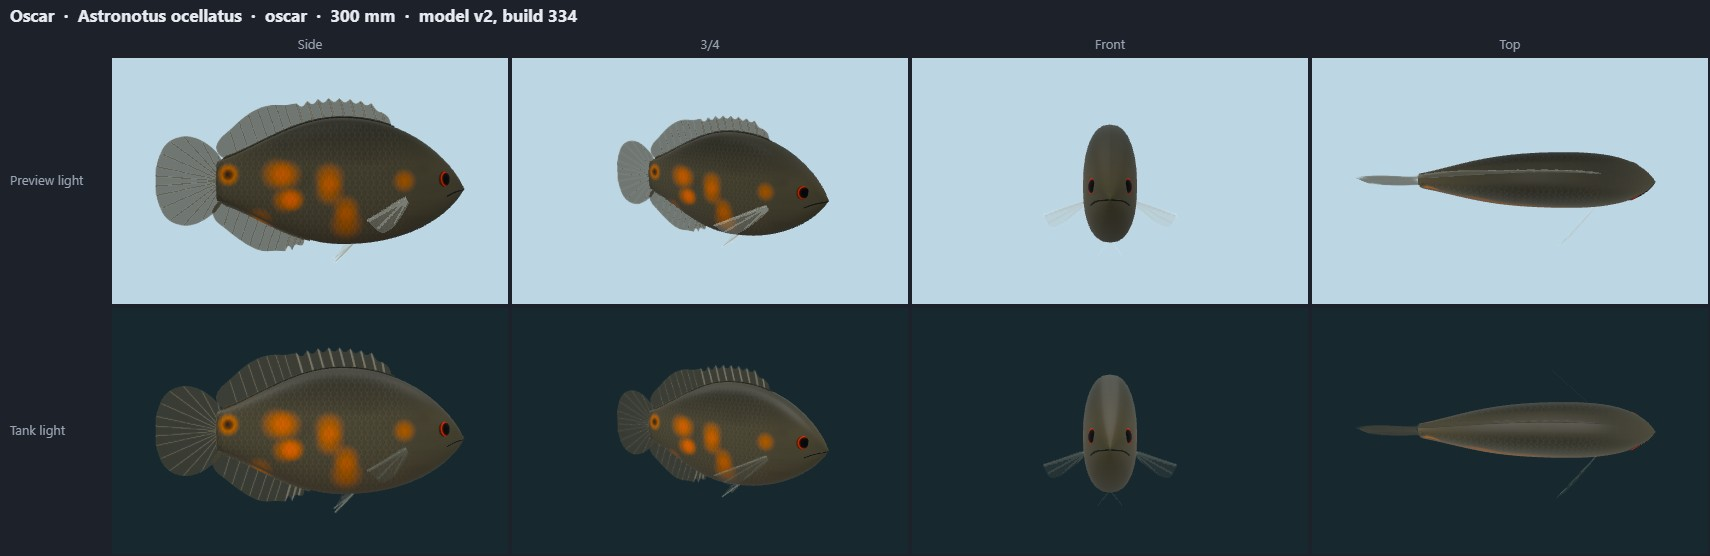
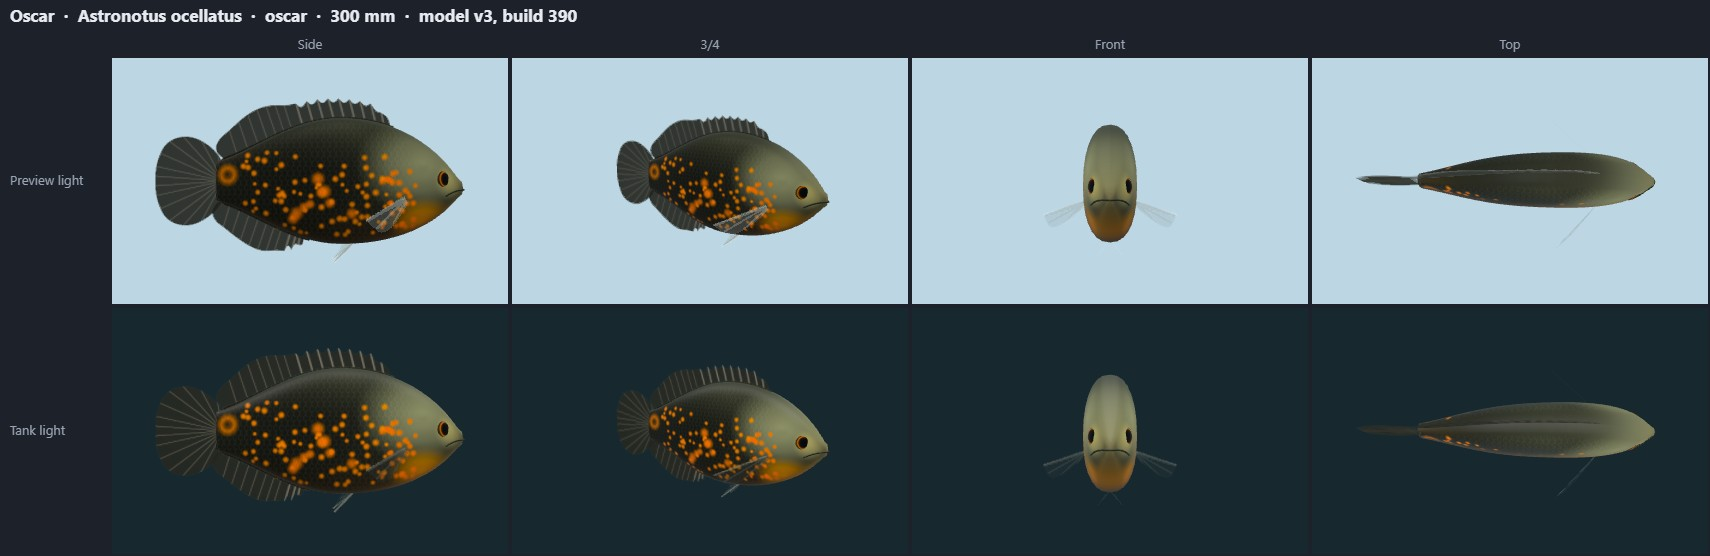
Lane F2: oscar - colours from Nathan's red tiger reference, nose rounded slightly (v2 body kept), v3; HANDOFF

diff --git a/public/model-sheets/index.html b/public/model-sheets/index.html
@@ -10,7 +10,7 @@ figure { margin: 8px 0 14px; padding: 8px; background: var(--panel); border-radi
 img { display: block; max-width: 100%; height: auto }
 </style></head><body>
 <h1>Model sheets</h1>
-<p>Pre-rendered review images of every TankLook animal model (no WebGL needed): 69 models, 58 species, written at build 386.
+<p>Pre-rendered review images of every TankLook animal model (no WebGL needed): 69 models, 58 species, written at build 390.
 Each sheet shows the Side, 3/4, Front, Top views; top row in the plain preview light, bottom row at true size in the default tank's LED light and water.
 Click a sheet for the full-size image (1710 × 556 px). Interactive version: <a href="../review.html">review.html</a>.</p>
 <h2>Freshwater fish</h2>
@@ -48,7 +48,7 @@ Click a sheet for the full-size image (1710 × 556 px). Interactive version: <a 
 <figure id="kribensis-f"><figcaption><b>Kribensis ♀</b> · <i>Pelvicachromis pulcher</i> · kribensis~f · 75 mm · model v2 (build 334, 2026-10-14)</figcaption><a href="kribensis-f.jpg"><img src="kribensis-f.jpg" width="1710" height="556" loading="lazy" alt="Kribensis ♀ (Pelvicachromis pulcher), model v2: Side, 3/4, Front, Top views, preview light (top row) and tank light (bottom row)"></a></figure>
 <figure id="angel"><figcaption><b>Angelfish</b> · <i>Pterophyllum scalare</i> · angel · 150 mm · model v2 (build 334, 2026-10-14)</figcaption><a href="angel.jpg"><img src="angel.jpg" width="1710" height="556" loading="lazy" alt="Angelfish (Pterophyllum scalare), model v2: Side, 3/4, Front, Top views, preview light (top row) and tank light (bottom row)"></a></figure>
 <figure id="discus"><figcaption><b>Discus</b> · <i>Symphysodon aequifasciatus</i> · discus · 150 mm · model v3 (build 334, 2026-10-14)</figcaption><a href="discus.jpg"><img src="discus.jpg" width="1710" height="556" loading="lazy" alt="Discus (Symphysodon aequifasciatus), model v3: Side, 3/4, Front, Top views, preview light (top row) and tank light (bottom row)"></a></figure>
-<figure id="oscar"><figcaption><b>Oscar</b> · <i>Astronotus ocellatus</i> · oscar · 300 mm · model v2 (build 334, 2026-10-14)</figcaption><a href="oscar.jpg"><img src="oscar.jpg" width="1710" height="556" loading="lazy" alt="Oscar (Astronotus ocellatus), model v2: Side, 3/4, Front, Top views, preview light (top row) and tank light (bottom row)"></a></figure>
+<figure id="oscar"><figcaption><b>Oscar</b> · <i>Astronotus ocellatus</i> · oscar · 300 mm · model v3 (build 390, 2026-10-14)</figcaption><a href="oscar.jpg"><img src="oscar.jpg" width="1710" height="556" loading="lazy" alt="Oscar (Astronotus ocellatus), model v3: Side, 3/4, Front, Top views, preview light (top row) and tank light (bottom row)"></a></figure>
 <figure id="goldfish"><figcaption><b>Fancy goldfish</b> · <i>Carassius auratus</i> · goldfish · 160 mm · model v2 (build 377, 2026-10-14)</figcaption><a href="goldfish.jpg"><img src="goldfish.jpg" width="1710" height="556" loading="lazy" alt="Fancy goldfish (Carassius auratus), model v2: Side, 3/4, Front, Top views, preview light (top row) and tank light (bottom row)"></a></figure>
 <figure id="bronzecory"><figcaption><b>Bronze corydoras</b> · <i>Corydoras aeneus</i> · bronzecory · 65 mm · model v2 (build 359, 2026-10-14)</figcaption><a href="bronzecory.jpg"><img src="bronzecory.jpg" width="1710" height="556" loading="lazy" alt="Bronze corydoras (Corydoras aeneus), model v2: Side, 3/4, Front, Top views, preview light (top row) and tank light (bottom row)"></a></figure>
 <figure id="pandacory"><figcaption><b>Panda corydoras</b> · <i>Corydoras panda</i> · pandacory · 50 mm · model v2 (build 359, 2026-10-14)</figcaption><a href="pandacory.jpg"><img src="pandacory.jpg" width="1710" height="556" loading="lazy" alt="Panda corydoras (Corydoras panda), model v2: Side, 3/4, Front, Top views, preview light (top row) and tank light (bottom row)"></a></figure>

diff --git a/src/art/fishgen.ts b/src/art/fishgen.ts
@@ -556,11 +556,16 @@ export const PLANS: Record<string, Plan> = {
     marks: [{ k: 'blob', u: 0.86, v: -0.15, ru: 0.09, rv: 0.07, c: '#c4a46a', a: 0.45 }, { k: 'blob', u: 0.6, v: -0.06, ru: 0.22, rv: 0.2, c: '#ffffff', a: 0.14 },
       { k: 'bars', us: [0.865, 0.645, 0.43], w: 0.05, c: '#26262a', a: 0.9 }, { k: 'bars', us: [0.235], w: 0.06, c: '#26262a', a: 0.5 }],
     finMarks: [{ k: 'bars', us: [0.645, 0.43], w: 0.05, c: '#26262a', a: 0.8 }], eye: { r: 0.026, iris: ['#c8673f', '#5b2a1c'] } },
-  oscar: { gape: 0.07, pec: { s: 1.6 }, thick: 0.48, depth: 0.42, pedU: 0.2, ped: 0.07, peak: 0.5, snout: 0.45, mouth: 0.025, shade: ['#2a2a24', '#3e3b30', '#4a4438'], tail: { type: 'round', h: 0.16, tint: '#3a372e', a: 0.85 }, fin: '#3a372e',
-    dorsal: { at: 0.76, len: 0.52, h: 0.11, spines: 0.6, nSp: 9, spineH: [0.05, 0.07], notch: 0.3, rake: 0.6, trail: 0.05, a: 0.85 },
-    anal: { at: 0.48, len: 0.26, h: 0.1, spines: 0.25, nSp: 3, spineH: [0.04, 0.06], rake: 0.5, trail: 0.04, a: 0.85 }, pelvic: { u: 0.64, len: 0.1, w: 1.2 },
-    marks: [{ k: 'spots', n: 12, u0: 0.3, u1: 0.8, v0: -0.05, v1: 0.15, r: 0.045, c: '#c8642a', a: 0.6 }, { k: 'blob', u: 0.24, v: -0.02, ru: 0.04, rv: 0.04, c: '#d8702a', a: 0.9 }, { k: 'blob', u: 0.24, v: -0.02, ru: 0.022, rv: 0.022, c: '#141414', a: 0.95 }],
-    eye: { r: 0.03, iris: ['#c84a2a', '#3a1208'] } },
+  // v2 body (lane S); colours from Nathan's reference photo (red tiger oscar): olive-grey head and upper front, near-black
+  // rear body, many small orange spots, orange throat and gill cover; nose rounded slightly (noseCap)
+  oscar: { noseCap: 0.02, gape: 0.07, pec: { s: 1.6 }, thick: 0.48, depth: 0.42, pedU: 0.2, ped: 0.07, peak: 0.5, snout: 0.45, mouth: 0.025, shade: ['#3c3f31', '#1b1c17', '#2c241a'], tail: { type: 'round', h: 0.16, tint: '#1f201c', a: 0.9 }, fin: '#1f201c',
+    dorsal: { at: 0.76, len: 0.52, h: 0.11, spines: 0.6, nSp: 9, spineH: [0.05, 0.07], notch: 0.3, rake: 0.6, trail: 0.05, a: 0.9 },
+    anal: { at: 0.48, len: 0.26, h: 0.1, spines: 0.25, nSp: 3, spineH: [0.04, 0.06], rake: 0.5, trail: 0.04, a: 0.9 }, pelvic: { u: 0.64, len: 0.1, w: 1.2 },
+    marks: [{ k: 'blob', u: 0.42, v: 0.04, ru: 0.34, rv: 0.25, c: '#0e0f0c', a: 0.8 }, { k: 'blob', u: 0.85, v: -0.05, ru: 0.21, rv: 0.16, c: '#8f9274', a: 0.85 }, { k: 'blob', u: 0.95, v: 0.0, ru: 0.06, rv: 0.06, c: '#b0a878', a: 0.7 },
+      { k: 'blob', u: 0.86, v: 0.13, ru: 0.12, rv: 0.08, c: '#d8913c', a: 0.8 }, { k: 'spots', n: 30, u0: 0.72, u1: 0.83, v0: -0.03, v1: 0.15, r: 0.011, c: '#e2742a', a: 0.9 },
+      { k: 'spots', n: 80, u0: 0.29, u1: 0.74, v0: -0.09, v1: 0.17, r: 0.01, c: '#ec8a2c', a: 0.9 }, { k: 'spots', n: 9, u0: 0.32, u1: 0.65, v0: -0.02, v1: 0.15, r: 0.022, c: '#e07a28', a: 0.85 },
+      { k: 'blob', u: 0.24, v: -0.02, ru: 0.04, rv: 0.04, c: '#e2802a', a: 0.95 }, { k: 'blob', u: 0.24, v: -0.02, ru: 0.022, rv: 0.022, c: '#141414', a: 0.95 }],
+    eye: { r: 0.03, iris: ['#b8743c', '#2e1a0a'] } },
   // fantail (Nathan 2026-10-14): egg-shaped body, a paired double caudal that splits and spreads sideways (seen from above), larger paired fins
   goldfish: { thick: 0.68, depth: 0.52, pedU: 0.32, ped: 0.06, peak: 0.45, snout: 0.75, shade: ['#c8642a', '#e88a3a', '#f0b87a'], tail: { type: 'notch', h: 0.3, split: 45, tint: '#e8964e', a: 0.75 }, fin: '#ec9e5e',
     dorsal: { u0: 0.42, u1: 0.68, h: 0.14, shape: 'round', a: 0.75 }, anal: { u0: 0.38, u1: 0.48, h: 0.1, shape: 'round', a: 0.75 }, pelvic: { u: 0.7, len: 0.15, w: 1.4 }, pec: { s: 2 },

diff --git a/HANDOFF.md b/HANDOFF.md
@@ -2,6 +2,27 @@
 
 Living file. Project state and dated decisions go here; update in place.
 
+## Lane F2: harder fish, new shapes (2026-10-14; branch `fish-hard`, port 5573; Nathan approved all four; pushed to main)
+Four species' PLANS entries in `src/art/fishgen.ts`, plus new GENERIC options, each off by default on its own commit (no other
+look changed; every fingerprint checked on /review.html before each Record).
+- **goldfish -> fantail (v2, build 377):** `tail.split` (8feffb9): a double caudal, two copies of the tail joined along the
+  top, lower parts flaring out (degrees) and the lobes swinging out to the rear (fish3d `splitTail`; fishgen `drawTail` /
+  `tailBox`; the 3D card leaves its own tail out). Goldfish: `split` 45 on 'notch' lobes, thick 0.68, pec x2, pelvic len
+  0.15 w 1.4. Not done: the fantail's doubled anal fin.
+- **kuhli (v2, build 384):** `noseCap` (84f85b4, profile(): the snout ends in a rounded half-ellipse this long instead of
+  the sharp corner; lane X's neon / cardinal / chili / cpd note could use it) and `barbelR` (3D barbel radius, default
+  0.004). Kuhli: noseCap 0.04, snout 0.95, peak 0.78, pedT 0.35, barbelR 0.0013, barbels 0.016.
+- **harlequin (v2, build 386):** poly marks take 'c' sharp-corner points (e49d389; they were always smoothed into a bean).
+  Harlequin: angular 0.7, peak 0.58, ped 0.03, depth 0.33; the patch a triangle from under the dorsal to the peduncle.
+- **oscar (v3, build 390):** head geometry was tried and dropped (Nathan: cheeks / jaw / lips read as a detached bulb or
+  "still looks like ass" next to his red tiger oscar photo, `shots/laneF2/ref-oscar.webp`). Shipped: lane S's v2 body
+  unchanged, the colours from that photo (olive-grey head and upper front, near-black rear via a dark blob, ~120 small
+  orange spots, orange throat and gill cover), noseCap 0.02. With noseCap the 3D mouth line starts on the snout midline
+  so the two sides meet (generic, fish3d gapeMeshes). The renderer lifts very dark colours, so contrast comes from the
+  lighter head, not a blacker body.
+- Head geometry for cory / panda, loach / SAE heads, marine cheeks: not built (the cheek / jaw attempt is not in the code).
+- Before/after composites: worktree `shots/laneF2/cmp-*.jpg` (gitignored); `cmp.py <ids>` after `npm run sheets`.
+
 ## Lane X: anatomy audit P2, freshwater mid-water fish (2026-10-14; branch `fish-fins`, port 5503; Nathan approved both sheets; pushed to main)
 PLANS entries only in `src/art/fishgen.ts`; no new generic parameters; v2 at build 372 (13 looks).
 - **Characins** (neon = art `tetra`, cardinal, ember, rummynose): `MedianFin` dorsal mid-back, short base with a
